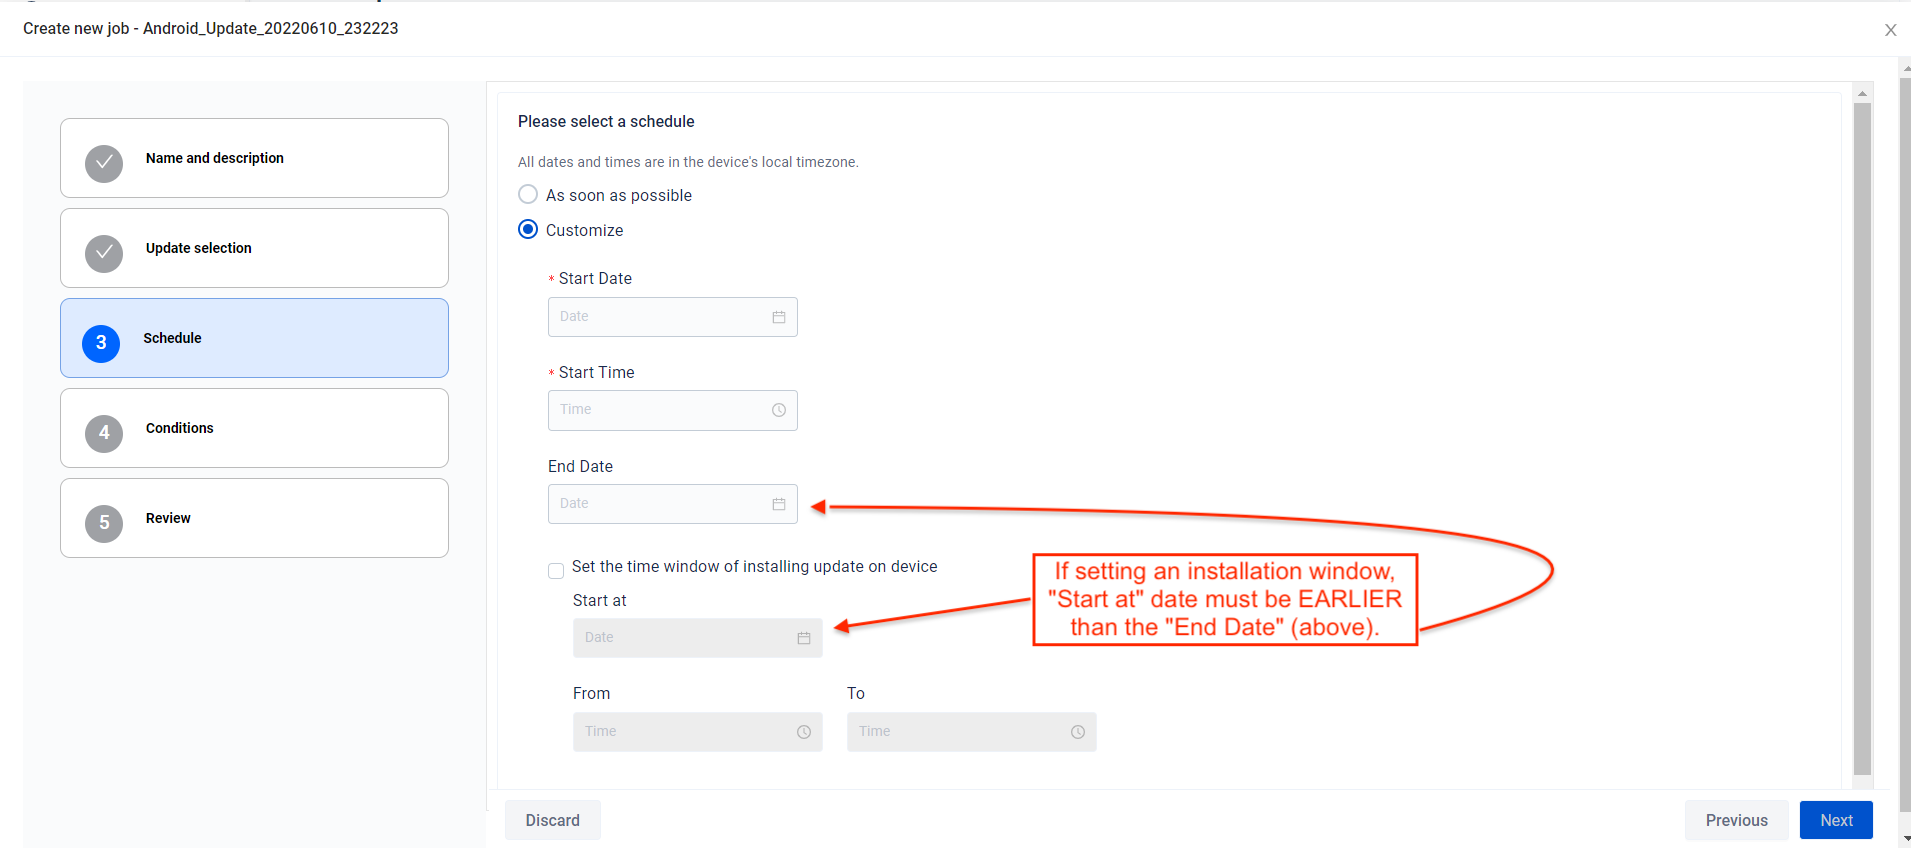
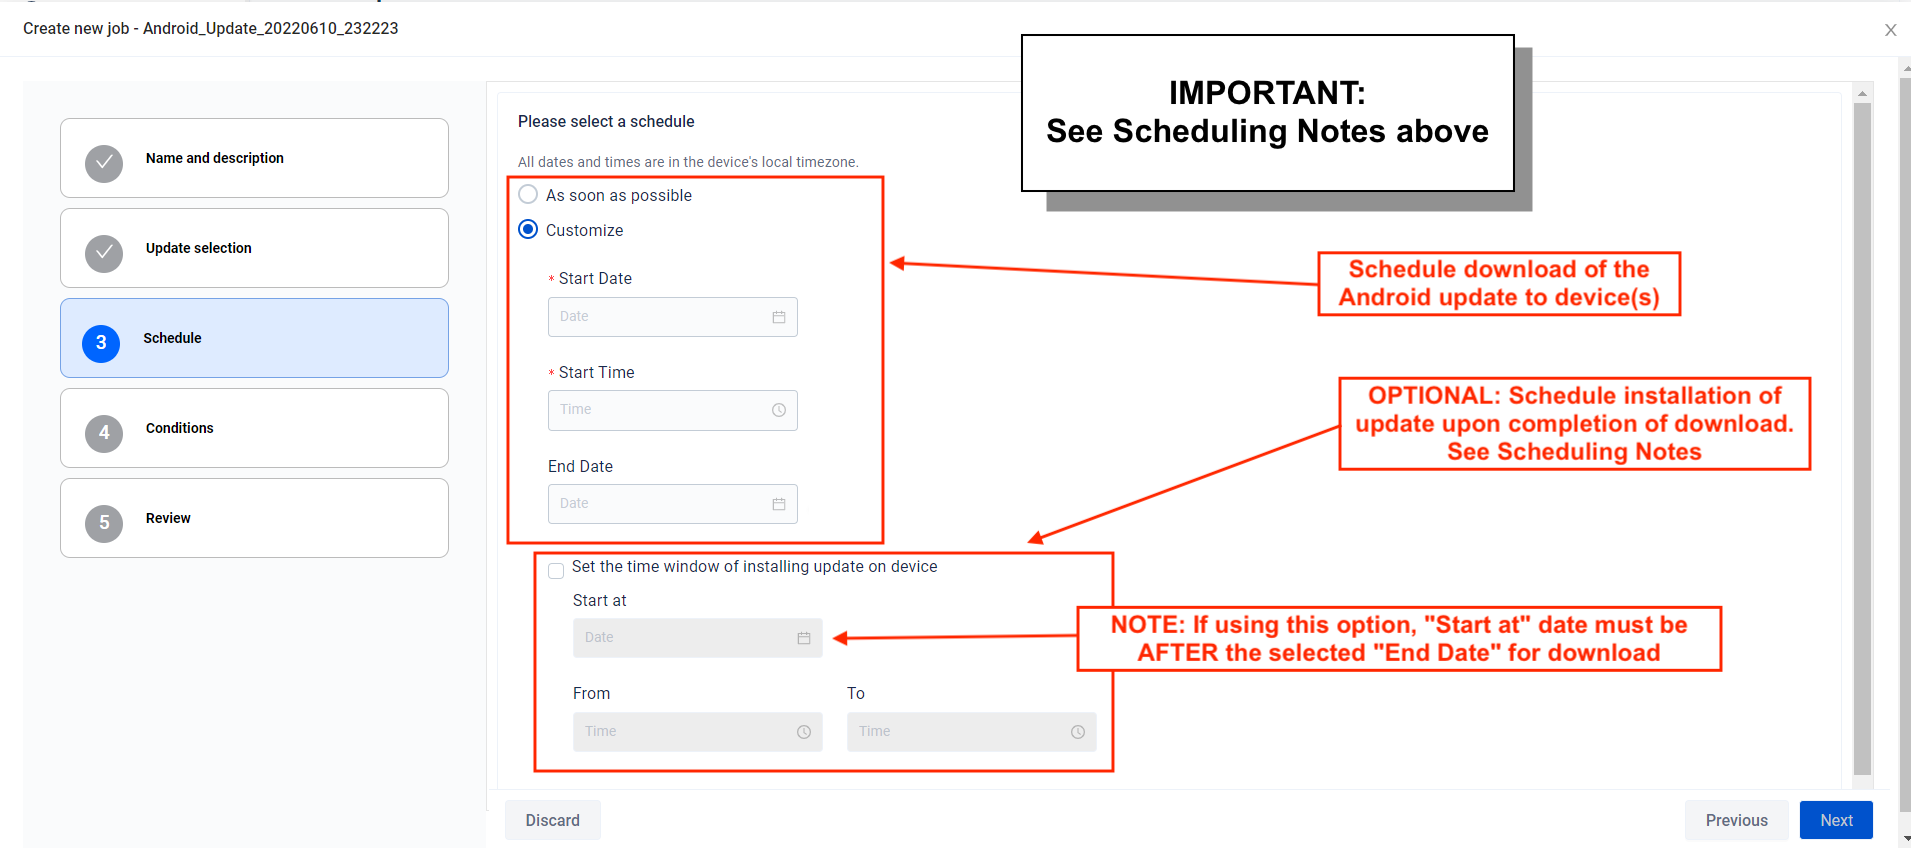
[TUT-105436] ZDNA 5.0 updates, per eng,

diff --git a/zebradna/5-0/usage/index.html b/zebradna/5-0/usage/index.html
@@ -421,6 +421,8 @@ PLAY STORE
 
 <li>...<strong>from online to offline</strong> appear after about 10 minutes along with an updated "Last Connected" timestamp (see image above).</li></ul>
 </li>
+
+<li><strong>If the ZDNA service and/or its dependent components are terminated</strong> by the Android system due to a lack-of-memory condition, the system attempts to automatically recover when memory becomes available. Presence information for such devices reappears about 15 minutes after recovery. </li>
 </ul>
 
 <!-- removed per eng
@@ -1199,25 +1201,20 @@ https://jira.zebra.com/browse/DLM-8112
 
 <h2 id="myapps" class="anchor"><a class="heading-anchor" href="#myapps"><span></span></a>My Apps</h2>
 
-<p><strong>The My Apps section is for installation of apps on devices and deployment of related files</strong>, if any. Apps are uploaded to the ZDNA system in a Collection, after which the administrator creates an <strong>App Setup Profile</strong>, designating an <code>.apk</code> (selected from a Collection) for deployment along with configuration and/or data file(s).</p>
+<p><strong>The My Apps section is for installation of apps on devices and deployment of related files</strong>, if any. Apps are uploaded to the ZDNA system in a Collection, after which the administrator creates an <strong>App Setup Profile</strong>, designating an <code>.apk</code> (selected from a Collection) for deployment along with configuration and/or data file(s). Zebra apps available for installation and maintenance can be seen in the "Zebra Collection" tab (see image, below). Non-Zebra apps installed by an organization are seen in the "My Collection" tab. <strong>Note: DNA Cloud does not host apps or perform app-hosting services</strong>.</p>
 
-<p>Zebra apps available for installation and maintenance can be seen in the "Zebra Collection" tab (see image, below). Non-Zebra apps installed by an organization are seen in the "My Collection" tab. </p>
-
-<ul>
-<li><strong>An App Setup Profile may contain</strong>:
-
+<h4 id="anappsetupprofilemaycontain" class="anchor"><a class="heading-anchor" href="#anappsetupprofilemaycontain"><span></span></a>An App Setup Profile may contain:</h4>
 
 <ul>
-<li>An app alone, selected from a Collection</li>
+<li><strong>An app alone</strong>, selected from a Collection</li>
 
-<li>An app plus related configuration and/or data files </li>
+<li><strong>An app plus config and/or data</strong> files </li>
 
-<li>Configuration and/or data files alone (for deployment to devices on which the target app is already installed) </li></ul>
-</li>
+<li><strong>Config and/or data files alone</strong> (for deployment to devices on which the target app is already installed) </li>
 </ul>
 
 <blockquote>
-  <p><i class="fa fa-exclamation-circle" style="color:#FF0000;"></i> <u>ZDNA <strong>DOES NOT</strong> host apps nor perform app-hosting services</u>.</p>
+  <p><i class="fa fa-exclamation-circle" style="color:#FF0000;"></i> <b><u>IMPORTANT</u></b>: <strong>Before deploying any app, please see <a href="#appnotes">App Notes section</a></strong> for important information. </p>
 </blockquote>
 
  <!-- 2/27/24- removed, per notice
@@ -1385,17 +1382,25 @@ When finished uploading files <strong>click Next</strong> to proceed: <br>
 <h3 id="appnotes" class="anchor"><a class="heading-anchor" href="#appnotes"><span></span></a>App Notes</h3>
 
 <ul>
-<li><i class="fa fa-exclamation-circle" style="color:#FF0000;"></i> <strong>The size of any individual <u><code>.apk</code> file must not exceed 150MB</u></strong>. </li>
+<li><strong><u>App Profiles can be edited and deployed only by a single user at a time</u></strong>.<br>
+<i class="fa fa-exclamation-circle" style="color:#FF0000;"></i> Attempts by multiple users to edit or apply app settings simultaneously results in unpredictable behavior. </li>
 
-<li>Managed configuration/app restriction files for third-party apps must not exceed 1MB in size. </li>
+<li><strong>Individual file size restrictions</strong>: 
 
-<li><strong>When manually adding an app to "My Collection," the "App Version" field accepts <u>ONLY numerical characters and one or more "dot" characters</u></strong> (e.g. "10.1" or "1.2.305"). This field DOES NOT accept alphabetic or other special characters. </li>
+
+<ul>
+<li><strong>Application</strong> (<code>.apk</code>) max size = <strong>150MB</strong>. </li>
+
+<li><strong>Third-party managed configuration</strong>/app restriction max size = <strong>1MB</strong>. </li></ul>
+</li>
+
+<li>When manually adding an app to "My Collection," <strong>the "App Version" field accepts <u>ONLY numerical characters and one or more "dot" characters</u></strong> (e.g. "10.1" or "1.2.305"). This field DOES NOT accept alphabetic or other special characters. </li>
+
+<li><strong>If an app update requires a different package name</strong>, the DNA Cloud deployment process <strong><em>uninstalls</em></strong> the older app first, then installs the newer version while preserving existing app data.</li>
 
 <li><strong>Changing the Google Drive after creating one or more Profiles could render those Profiles read-only</strong> and/or produce unpredictable behavior during deployments.<br><i class="fa fa-exclamation-triangle" style="color:#FFA500;"></i> <a href="../setup/#myservicesnotes">See My Services notes</a> for more information.</li>
 
 <li><strong>A changed Google Drive is indicated by a banner</strong> similar to the one shown below (DNA Cloud 2.4 and later). <img alt="image" style="height:50px" src="24_g_drive_banner.png"></li>
-
-<li><strong>If an app update requires a different package name</strong>, the DNA Cloud deployment process <strong><em>uninstalls</em></strong> the older app first, then installs the newer version while preserving existing app data.</li>
 </ul>
 
 <hr>
@@ -1642,14 +1647,18 @@ When all updates are selected, <strong>click "Next" to proceed</strong>:
 <br></p></li>
 
 <li><p><strong>Select a Schedule</strong> for performing the update, if desired. For example, scheduling during "off hours" can help minimize worker disruption.<br>
-Select "As soon as possible" to begin the update immediately upon starting the job (and as devices become available).<br>
-<i class="fa fa-exclamation-triangle" style="color:#FFA500;"></i> If setting an installation window, <strong>the "Start at" date must be EARLIER than the selected End Date</strong> (see below).<br>
-<strong>Click "Next"</strong> to proceed:
+&nbsp;&nbsp;&nbsp;<b><font size="3" color="Black">Scheduling Notes:</font></b><br>
+&nbsp;&nbsp;&nbsp;&nbsp;&nbsp;&nbsp;• <strong>Select "As soon as possible" to begin the update immediately</strong> upon starting the job (or as soon as devices become available).<br>
+&nbsp;&nbsp;&nbsp;&nbsp;&nbsp;&nbsp;• <strong>Download attempts interrupted due to network or other issues are repeated every 24 hours</strong> for 28 days before reporting failure. <br>
+&nbsp;&nbsp;&nbsp;&nbsp;&nbsp;&nbsp;• <strong>Unscheduled installations begin within 24 hours</strong> of a <u><b><i>completed</i></b></u> download.<br>
+&nbsp;&nbsp;&nbsp;&nbsp;&nbsp;&nbsp;• <strong>If setting an installation window, the "Start at" date must be <u><i>after</i></u> the "End Date"</strong> selected in the download section.<br>
+<br> 
+After setting desired schedule, <strong>click "Next"</strong> to proceed:
 <img alt="image" style="height:350px" src="android_update_06a.png">
 <em>Click image to enlarge; ESC to exit.</em>
 <br></p></li>
 
-<li><p><strong>Select the conditions</strong> under which to perform the update and whether to allow the device user to postpone. <br>
+<li><p><strong>Select the conditions under which to perform the update</strong> and whether to allow the device user to postpone. <br>
 <i class="fa fa-exclamation-triangle" style="color:#FFA500;"></i> Updates begin only <strong>when ALL conditions are met</strong> on a given device.<br> <br>
 <strong>Click "Next"</strong> to proceed:
 <img alt="image" style="height:350px" src="android_job_5.png">

diff --git a/zebradna/5-0/faq/index.html b/zebradna/5-0/faq/index.html
@@ -255,6 +255,19 @@
 
 <hr>
 
+<!-- 1/3/25 new year, new undo DLM-43823
+
+### Is there a dedicated URL for DNA Cloud users in Europe? 
+
+**Yes. New customers in Europe can now experience reduced latencies by using Zebra's new DNA Cloud URL**: 
+
+* **[eu-dnacloud.zebra.com](https://eu-dnacloud.zebra.com/app/home)**
+
+<i class="fa fa-exclamation-circle" style="color:#FF0000;"></i> **Servers in Europe and North American are NOT interchangeable**. Customer data stored on one server is NOT replicated to any other server. 
+
+-----
+ -->
+
 <h3 id="whydoesgooglereportanerrorwhenitrytodeployanappfrommycollection" class="anchor"><a class="heading-anchor" href="#whydoesgooglereportanerrorwhenitrytodeployanappfrommycollection"><span></span></a>Why does Google report an error when I try to deploy an app from My Collection?</h3>
 
 <p><strong>Due to API changes in Google Drive, My Collection app deployment from a Google Drive no longer fuctions as before</strong>. Until further notice, Zebra recommends deploying My Collection apps using the <a href="../usage/#step2c">"Specified Server" method</a>. </p>
